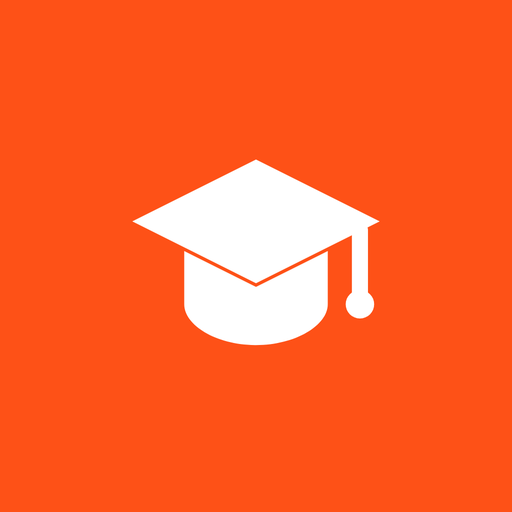
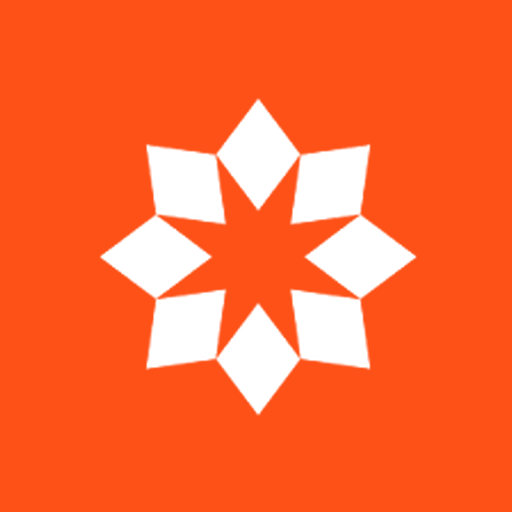
Add files via upload

Changed region(s): [[0.1875, 0.1875, 0.8125, 0.8125]]

diff --git a/index.html b/index.html
@@ -20,6 +20,7 @@
    1 px CSS = 1 pt.
    ========================================================================== */
 :root{
[1 lines of base64/hex data omitted]
   --orange:#FE5117;          /* barra superior, botones */
   --orange-edge:#FE4F18;
   --peach:#F3CDB6;           /* franja "Actualizado" / fecha */
@@ -497,6 +498,11 @@ svg{display:block}
 .ab-right.cap2 button{width:34px;height:34px;display:flex;align-items:center;justify-content:center;color:#fff}
 .ab-right.cap2 svg{width:23px;height:23px}
 
+/* Logo (máscara de imagen coloreada con el color del texto) */
+.emb{display:inline-block;flex:none;width:24px;height:24px;background-color:currentColor;-webkit-mask:var(--emblem-mask) center/contain no-repeat;mask:var(--emblem-mask) center/contain no-repeat}
+.d-item .d-ic .emb{width:30px;height:30px;margin:0.5px}
+.splash .s-emb{width:78px;height:78px;color:#fff;margin-bottom:6px}
+
 /* Horario: páginas por día */
 .content.pager-host{overflow:hidden;display:flex;flex-direction:column}
 .pager{position:relative;flex:1;overflow:hidden;touch-action:pan-y}
@@ -806,7 +812,7 @@ html.ios26 .modal .m-actions.stack button+button{border-top:0}
   </div>
 </div>
 <script>
-/* Íconos genéricos dibujados para la réplica (no son íconos oficiales). */
+/* Íconos de la app. */
 (function(){
   const I = {
     /* Barra superior */
@@ -934,6 +940,8 @@ html.ios26 .modal .m-actions.stack button+button{border-top:0}
   };
   window.ICONS = I;
   window.ic = function(name, cls){
+    /* Logo de la app: imagen usada como máscara, toma el color del texto (blanco, gris o negro) */
+    if (name === 'emblem') return '<span class="emb' + (cls ? ' ' + cls : '') + '" aria-hidden="true"></span>';
     const o = I[name] || I.info;
     const vb = o.vb || '0 0 24 24';
     const c = cls ? ' class="'+cls+'"' : '';
@@ -1917,7 +1925,7 @@ const Views = {};
 
 /* ---------- Splash ---------- */
 Views.splash = () => ({
-  html: '<div class="splash"><div class="s-name">Universidad<br>de Lima</div><div class="spinner"></div></div>',
+  html: '<div class="splash">' + ic('emblem', 's-emb') + '<div class="s-name">Universidad<br>de Lima</div><div class="spinner"></div></div>',
   mount() { setTimeout(() => setRoot('intranet', null, { fade: true }), 1100); },
 });
 

diff --git a/sw.js b/sw.js
@@ -1,6 +1,6 @@
 // Guarda la app en el teléfono para que funcione sin internet.
 // Si cambias algo en la app, sube el número de versión para que el iPhone baje la nueva.
-const VERSION = 'ulima-replica-v4';
+const VERSION = 'ulima-replica-v5';
 const ARCHIVOS = ['./', './index.html', './manifest.webmanifest', './icon-180.png', './icon-192.png', './icon-512.png'];
 
 self.addEventListener('install', (e) => {
